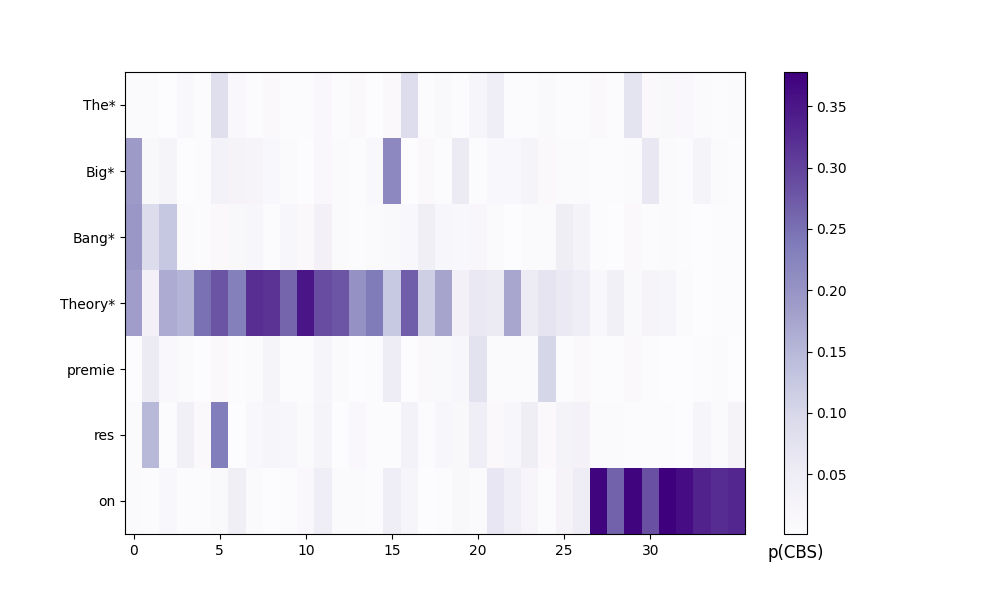
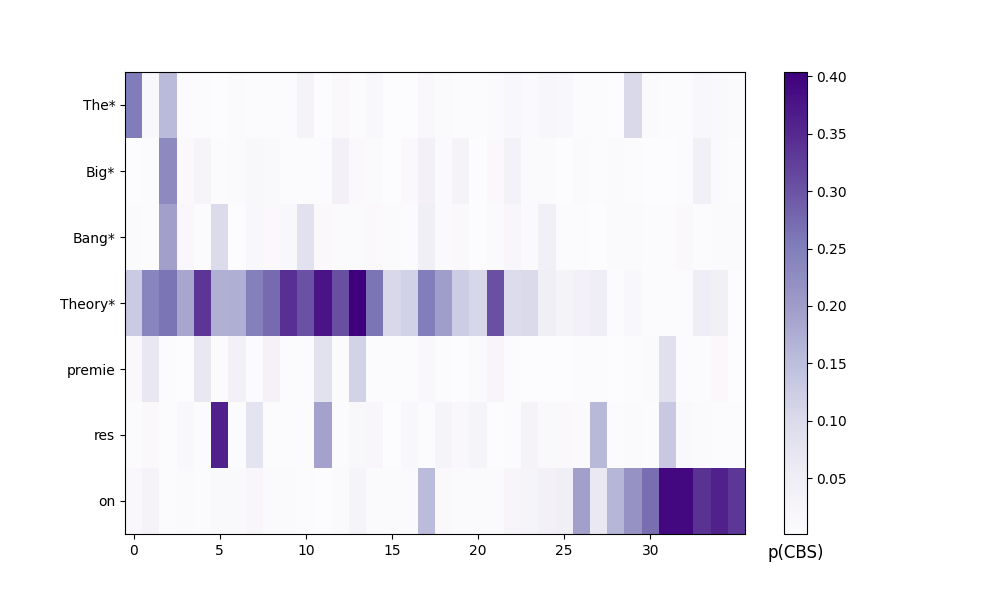
added attn experiment

diff --git a/ROME.py b/ROME.py
@@ -67,7 +67,23 @@ for center in range(num_heads):
         for key in new_keys:
             hooks.remove_hook(key)
 
-#TODO bug fixing in additive noise and hidden patch
+# attn
+for center in range(num_heads):
+    results['attn'][center] = dict()
+    for pos in range(num_tokens):
+        new_keys = []
+        for layer in range(max(0,center-5), min(num_heads, center+5)): #TODO currently removing and recreating hooks too often -> make as sliding window
+            old_key = f'transformer->h->{layer}->attn'
+            new_key = f'patch_h{layer}_attn_pos{pos}'
+            new_keys.append(new_key)
+            hooks.add_custom_hook(old_key, new_key, hidden_patch_hook_fn(pos, correct_hidden[old_key][0][pos]))
+        output = model(**encoded_input)
+
+        prob = torch.softmax(output["logits"][0,-1,:], 0)[correct_id].item()
+        results['attn'][center][pos] = prob
+        
+        for key in new_keys:
+            hooks.remove_hook(key)
 
 # hidden
 for head_num in range(num_heads):

diff --git a/plot_CBS.py b/plot_CBS.py
@@ -49,3 +49,21 @@ plt.gca().invert_yaxis()
 cbar = plt.colorbar(im)
 cbar.ax.set_title("p(CBS)", y=-0.07)
 plt.savefig(f'./{model_size}_mlp.png')
+
+#########
+
+prob_array = np.zeros((6,num_heads))
+
+for num_heads, pos in product(range(num_heads), range(6)):
+    prob_array[pos, num_heads] = data['attn'][str(num_heads)][str(pos)]
+
+plt.figure(figsize=(10,6))
+plt.xticks(np.arange(0,num_heads,5)+0.5, np.arange(0,num_heads,5))
+plt.yticks()
+plt.yticks(np.arange(0,7)+0.5, ["The*", "Big*", "Bang*", "Theory*", "premie", "res", "on"])
+# im = plt.imshow(prob_array, cmap="Purples")
+im = plt.pcolormesh(prob_array, cmap="Reds")
+plt.gca().invert_yaxis()
+cbar = plt.colorbar(im)
+cbar.ax.set_title("p(CBS)", y=-0.07)
+plt.savefig(f'./{model_size}_attn.png')
